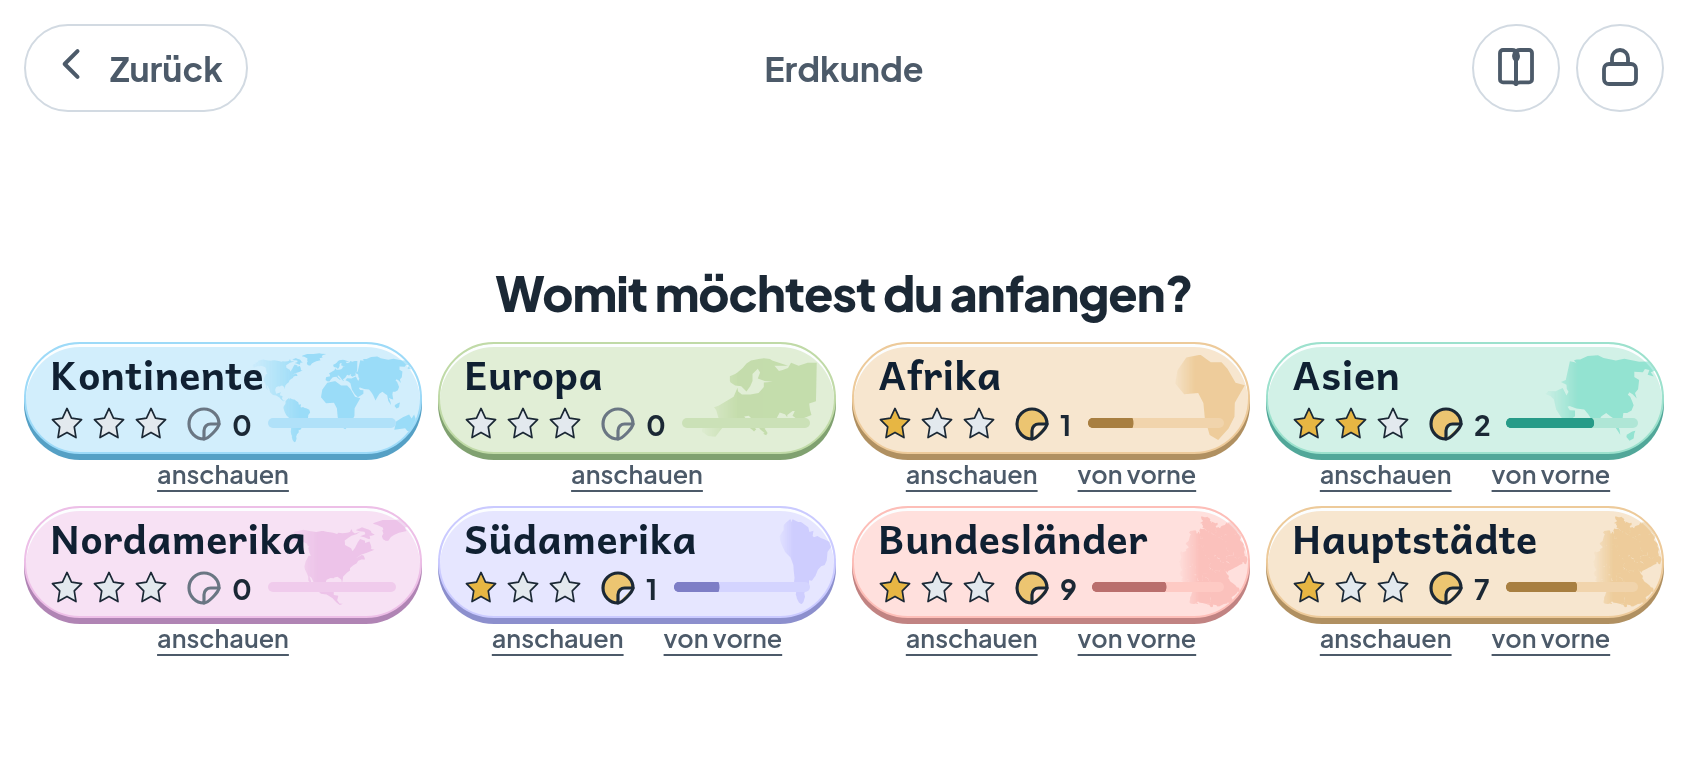
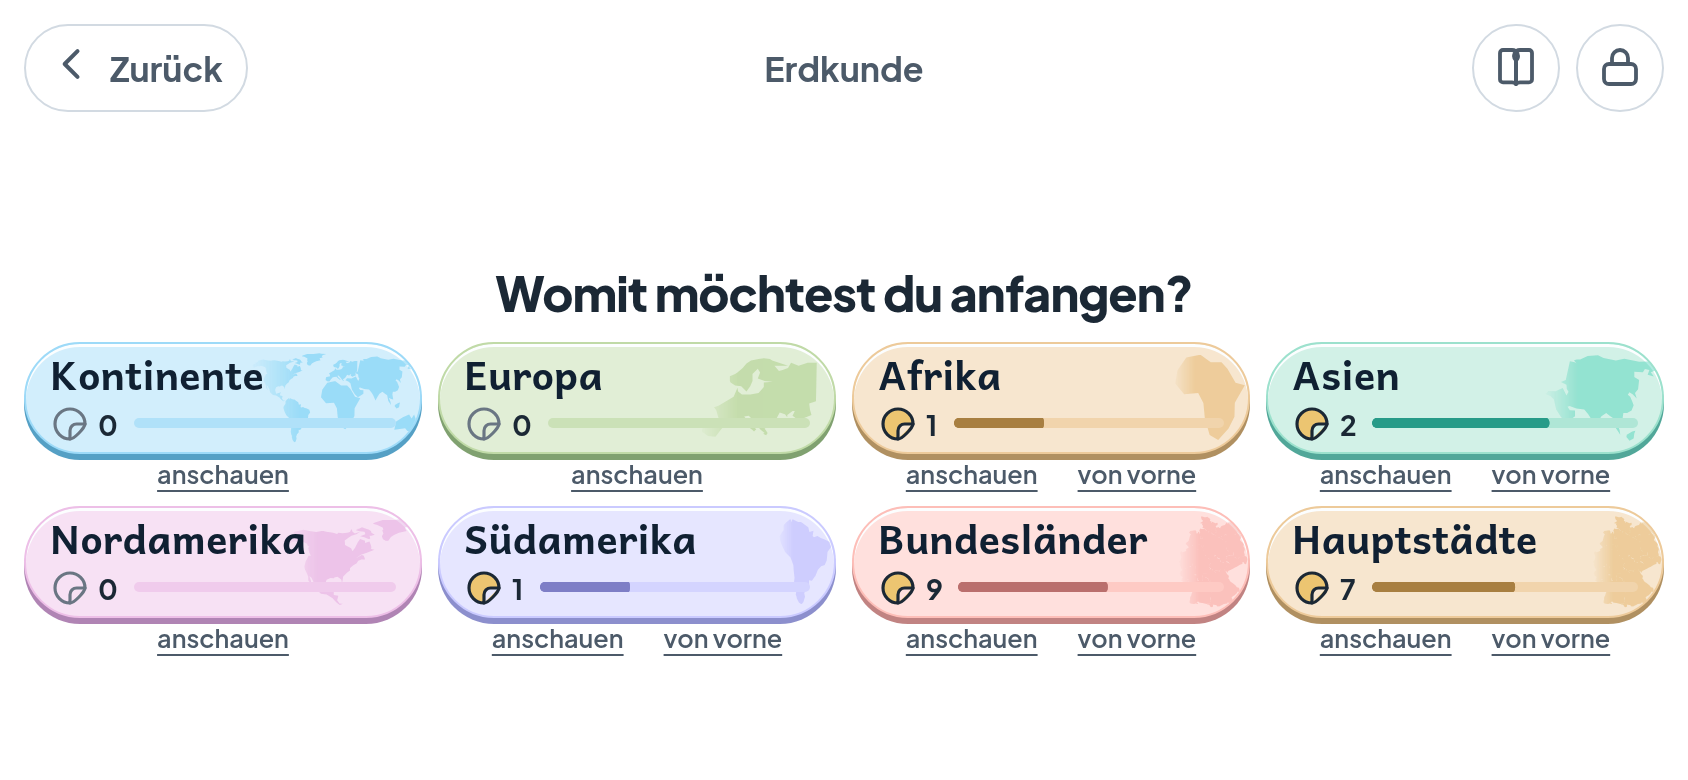
S1: Sterne heissen eine Sache. A3: der Fehler wird beim Ziehen benannt

diff --git a/prototyp/spiel.js b/prototyp/spiel.js
@@ -95,6 +95,31 @@ const sterne=(n,g)=>`<div class="sterne">${[0,1,2].map(i=>STERN(i<n?'var(--stern
  * `bisher` ist die Zahl der schon beantworteten Aufgaben: im Kopf waechst
  * die Anzeige damit waehrend der Runde mit, statt am Ende zu springen.
  */
+/* ---- Sterne heissen EINE Sache: wie die Sitzung lief (S1) -------------
+ *
+ * Bis hierher stand dieselbe Sternform an zwei Orten und meinte zweierlei:
+ * im Kopf und auf dem Endbildschirm die SITZUNG (drei Sterne = fehlerfrei),
+ * auf der Ebenenkachel den LEBENSFORTSCHRITT. Ein Kind spielte also
+ * fehlerfrei, sah drei Sterne, tippte auf „Weiter" - und sah auf der
+ * Kachel einen. Dieselbe Form, dieselbe Farbe, zwei Bedeutungen. Fuer eine
+ * Sechsjaehrige ist das nicht differenziert, sondern ein Wortbruch.
+ *
+ * Und daneben lag S2: auf der Kachel standen Sterne und Balken als
+ * ANTEIL, die Aufkleberzahl als ANZAHL. Auf einer Aufnahme sah man
+ * „Bundeslaender: 1 Stern, 9 Aufkleber" neben „Asien: 2 Sterne, 2
+ * Aufkleber" - wer die Kacheln vergleicht, und Kinder vergleichen sie,
+ * liest das Gegenteil dessen, was dasteht.
+ *
+ * Beides ist mit EINER Entscheidung erledigt: die Sterne gehoeren der
+ * Sitzung. Auf der Kachel steht, wie weit die Ebene ist - die
+ * Aufkleberzahl (Anzahl, mit anteilig gefuelltem Zeichen) und der
+ * zweiteilige Balken. Zwei Aussagen statt vier, und keine widerspricht
+ * einer anderen.
+ *
+ * `tor/inhalt.mjs` setzt das durch: jeder Aufruf von `sterneFuer` muss
+ * `st.glatt` bekommen. Eine Regel, die nur hier stuende, waere beim
+ * naechsten Bildschirm wieder vergessen.
+ */
 function sterneFuer(glatt, gesamt){
   if (!gesamt) return 0;
   const anteil = glatt / gesamt;
@@ -1100,8 +1125,7 @@ async function ebenenwahl(){
           <div class="ueber">${b.ueber}</div>
           <div class="name">${b.titel}</div>
           <div class="kachelfuss">
-            <div class="stand">${sterne(sterneFuer(b.gesammelt, b.gesamt), 20)}${
-              kleberMarke(b.gesammelt, b.gesamt)}</div>
+            <div class="stand">${kleberMarke(b.gesammelt, b.gesamt)}</div>
             ${fortschrittBalken(b)}
           </div>
         </button>
@@ -2711,7 +2735,10 @@ function spielschirm(){
       const t = zielUnter(ev.clientX, ev.clientY);
       const von = b.getBoundingClientRect();
       aufraeumen();
-      if (t) { bewerte(k.name,'ziehen',{ etikett:b, getroffen:t.id }); return; }
+      // Der Ablegepunkt wandert mit: aus ihm und dem Anker des gesuchten
+      // Gebiets wird der Hinweis „liegt weiter oben" (A3).
+      if (t) { bewerte(k.name,'ziehen',
+        { etikett:b, getroffen:t.id, punkt:{ x:ev.clientX, y:ev.clientY } }); return; }
       // Ins Leere gezogen. Das ist keine falsche Antwort - es war gar
       // keine. Es kostet keinen Versuch, aber es bleibt sichtbar: das
       // Etikett fliegt an seinen Platz zurueck und sagt, was fehlt.
@@ -2755,6 +2782,48 @@ function spielschirm(){
    */
   const kopfNachziehen = () => kopfNachziehenIn(s);
 
+  /**
+   * Der Fehler wird BENANNT, nicht nur abgelehnt (A3).
+   *
+   * Bis hierher stand bei jedem Fehlgriff auf der Karte „Nicht ganz -
+   * probier es noch einmal." Das ist der Vorwurf, den sich ANTON
+   * einfaengt: eine Ablehnung ohne Auskunft. Die Daten fuer eine bessere
+   * Antwort liegen laengst da - jedes Gebiet hat einen Anker.
+   *
+   * Zwei Auskuenfte, und beide nur, wenn sie stimmen:
+   *
+   *   WAS DA IST   der Name des Gebiets unter dem Finger. Ihn gibt es
+   *                nur fuer Gebiete dieser Ebene; auf einer Kontinent-
+   *                karte liegt ringsum Umgebung ohne Namen.
+   *   WO ES HIN MUSS  die Richtung vom Ablegepunkt zum Anker des
+   *                gesuchten Gebiets - in BILDSCHIRMpunkten, denn der
+   *                Satz beschreibt, was das Kind sieht.
+   *
+   * Wer nur ein paar Punkte danebenliegt, bekommt KEINE Richtung: „weiter
+   * oben" waere dort falscher als nichts - es schickte ihn weg von der
+   * Stelle, an der er fast richtig lag. Dann sagt der Satz genau das.
+   */
+  function zugHinweis(roh, ctx){
+    const wo = NAMEN[ctx.getroffen];
+    const fremd = wo && ctx.getroffen !== ziel.id;
+    // Der Anker des gesuchten Gebiets auf dem Schirm - dieselbe Rechnung
+    // wie beim Namensschild und beim Schreibblatt.
+    let richtung = null;
+    const svg = s.querySelector('.karte svg');
+    if (svg && ziel.anker && ctx.punkt) {
+      const pt = svg.createSVGPoint();
+      pt.x = ziel.anker[0]; pt.y = ziel.anker[1];
+      const q = pt.matrixTransform(svg.getScreenCTM());
+      richtung = Richtung.richtungswort(q.x - ctx.punkt.x, q.y - ctx.punkt.y);
+    }
+    const teile = [];
+    if (fremd) teile.push(`Das ist ${wo}.`);
+    if (roh === ziel.name && !fremd) teile.push('Der Name stimmt.');
+    teile.push(richtung ? `${ziel.name} liegt ${richtung}.`
+                        : `${ziel.name} ist ganz nah — schau noch mal genau hin.`);
+    return teile.join(' ');
+  }
+
   /* --- Bewertung. EIN Ort, egal welcher Eingabeweg. --- */
   async function bewerte(roh, eingabeart, ctx){
     if (erledigt) return;
@@ -2775,8 +2844,7 @@ function spielschirm(){
       else text='Nicht ganz — probier es noch einmal.';
     } else if (eingabeart==='ziehen') {
       if (ctx.getroffen===ziel.id && roh===ziel.name) ergebnis='richtig';
-      else if (roh===ziel.name) text='Fast! Der Name stimmt — aber das ist ein anderes Gebiet.';
-      else text='Nicht ganz — probier es noch einmal.';
+      else text = zugHinweis(roh, ctx);
     } else if (eingabeart==='tippen') {
       // Das ganze Gebiet, nicht nur sein Name - sonst zaehlt kein Alias.
       const r = Vergleich.rechtschreibung(roh, ziel);

diff --git a/src/kern/richtung.js b/src/kern/richtung.js
@@ -1,0 +1,53 @@
+/**
+ * Wohin muss das Etikett? Aus zwei Punkten ein Wort, das ein Kind versteht.
+ *
+ * Der Anlass ist A3 aus dem ANTON-Abgleich: bis hierher sagte die App bei
+ * einem Fehlgriff auf der Karte „Nicht ganz - probier es noch einmal."
+ * Das ist keine Hilfe, sondern eine Ablehnung. Mit den Daten, die ohnehin
+ * da sind - dem Anker jedes Gebiets -, laesst sich sagen, WO das gesuchte
+ * liegt: „Thueringen liegt weiter oben."
+ *
+ * Gerechnet wird in BILDSCHIRMPUNKTEN, nicht in Kartenkoordinaten: der
+ * Satz beschreibt, was das Kind sieht. Auf einer gedrehten oder anders
+ * ausgeschnittenen Karte waere „oben" in Kartenkoordinaten etwas anderes
+ * als oben auf dem Schirm, und der Hinweis zeigte in die falsche Richtung.
+ *
+ * Eine eigene Datei, weil das Wort ohne Browser zu pruefen sein muss: die
+ * Geometrie ist eine Rechnung, kein Bildschirm.
+ */
+
+/**
+ * Ab hier lohnt sich eine Richtung ueberhaupt.
+ *
+ * Wer 20 Punkte danebenliegt, hat nicht in die falsche Richtung gedacht -
+ * er hat den Finger nicht genau genug gesetzt. „Weiter oben" waere dort
+ * falscher als gar nichts: es schickte ihn weg von der Stelle, an der er
+ * fast richtig lag.
+ */
+export const NAH = 40;
+
+/**
+ * Ab welchem Verhaeltnis eine Achse ALLEIN genannt wird.
+ *
+ * Liegt das Ziel doppelt so weit oben wie rechts, ist „weiter oben" die
+ * Auskunft; sonst werden beide genannt. Ohne diese Schwelle hiesse es bei
+ * jedem schraegen Fall „weiter oben rechts" - vier Woerter, von denen
+ * eines fast nichts beitraegt.
+ */
+const KLAR = 2;
+
+/**
+ * Das Wort fuer „von hier nach dort".
+ *
+ * `dx`, `dy` sind Bildschirmpunkte: x nach rechts, y nach UNTEN (so wie
+ * der Browser rechnet). Zurueck kommt `null`, wenn es zu nah ist - dann
+ * hat der Aufrufer keine Richtung zu nennen und sagt etwas anderes.
+ */
+export function richtungswort(dx, dy, nah = NAH) {
+  if (Math.hypot(dx, dy) < nah) return null;
+  const waag = dx < 0 ? 'links' : 'rechts';
+  const senk = dy < 0 ? 'oben' : 'unten';
+  if (Math.abs(dx) > KLAR * Math.abs(dy)) return `weiter ${waag}`;
+  if (Math.abs(dy) > KLAR * Math.abs(dx)) return `weiter ${senk}`;
+  return `weiter ${senk} ${waag}`;
+}
